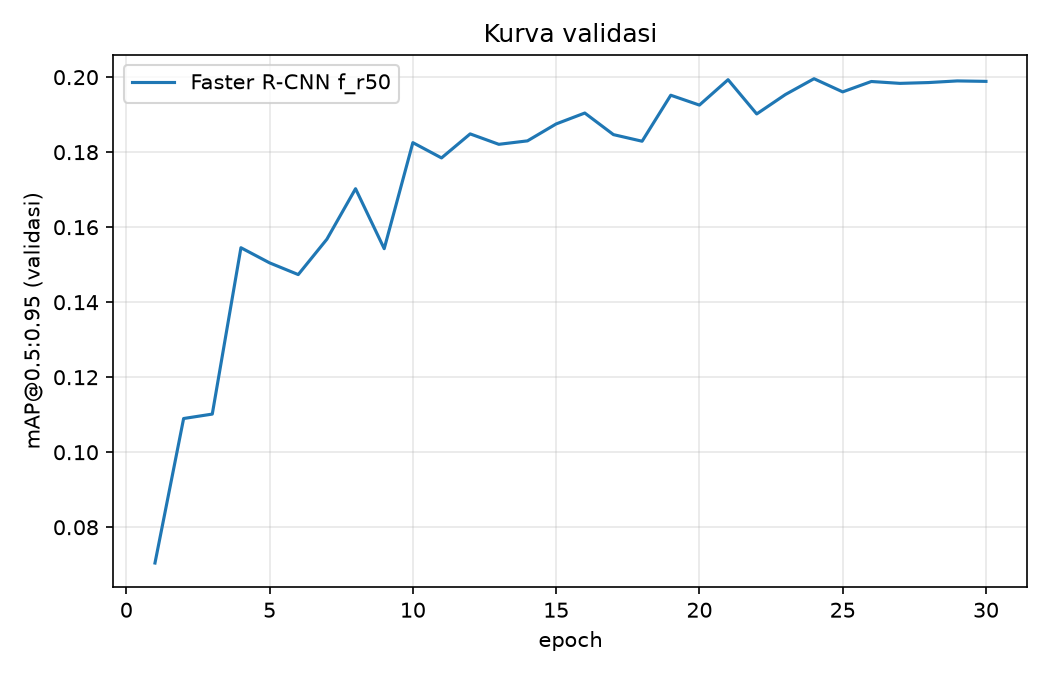
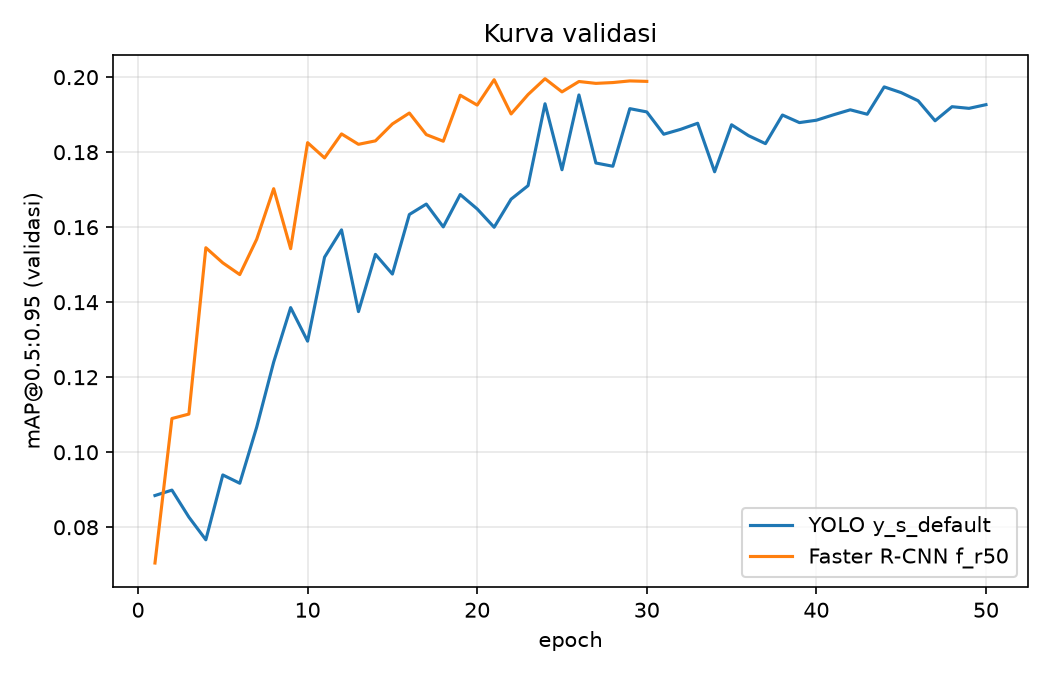
Baseline YOLO (y_s_default)

diff --git a/results/summary.md b/results/summary.md
@@ -3,18 +3,19 @@
 | model | type | mAP50 | mAP50-95 | mAP_small | mAP_medium | mAP_large | FPS |
 |---|---|---|---|---|---|---|---|
 | f_r50 | frcnn | 0.326 | 0.234 | 0.072 | 0.170 | 0.354 | 20.710 |
+| y_s_default | yolo | 0.262 | 0.202 | 0.069 | 0.174 | 0.286 | 37.740 |
 
 ## AP@0.5:0.95 per kelas
 
-| index | f_r50 |
-|---|---|
-| Plastic bag & wrapper | 0.265 |
-| Cigarette | 0.062 |
-| Bottle | 0.453 |
-| Bottle cap | 0.318 |
-| Can | 0.409 |
-| Other plastic | 0.040 |
-| Carton | 0.327 |
-| Cup | 0.357 |
-| Straw | 0.031 |
-| Other | 0.076 |
+| index | f_r50 | y_s_default |
+|---|---|---|
+| Plastic bag & wrapper | 0.265 | 0.229 |
+| Cigarette | 0.062 | 0.037 |
+| Bottle | 0.453 | 0.355 |
+| Bottle cap | 0.318 | 0.317 |
+| Can | 0.409 | 0.362 |
+| Other plastic | 0.040 | 0.085 |
+| Carton | 0.327 | 0.227 |
+| Cup | 0.357 | 0.237 |
+| Straw | 0.031 | 0.099 |
+| Other | 0.076 | 0.069 |
